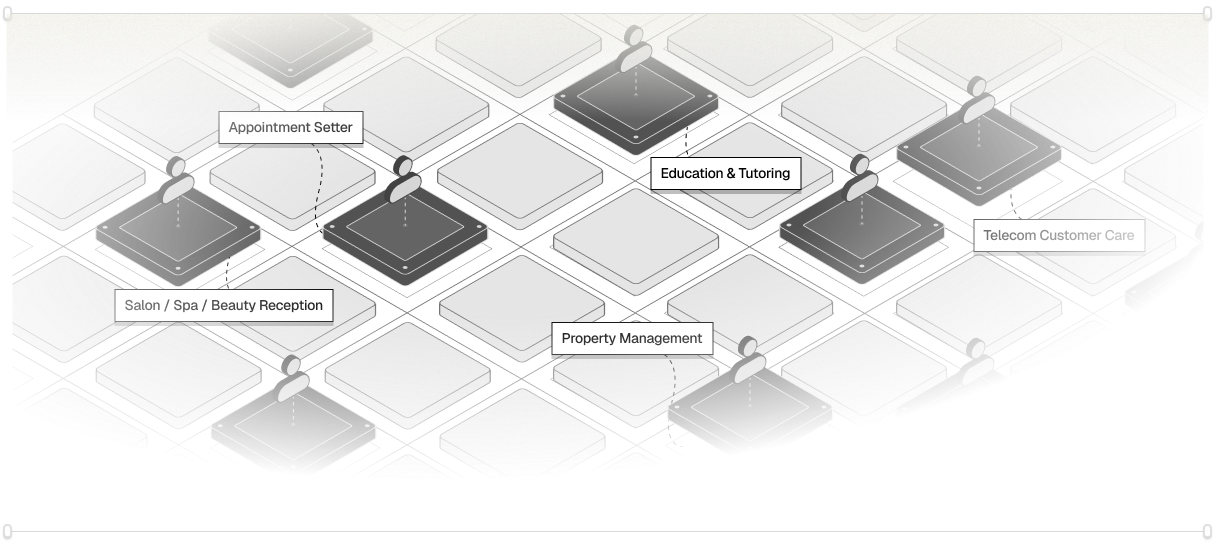
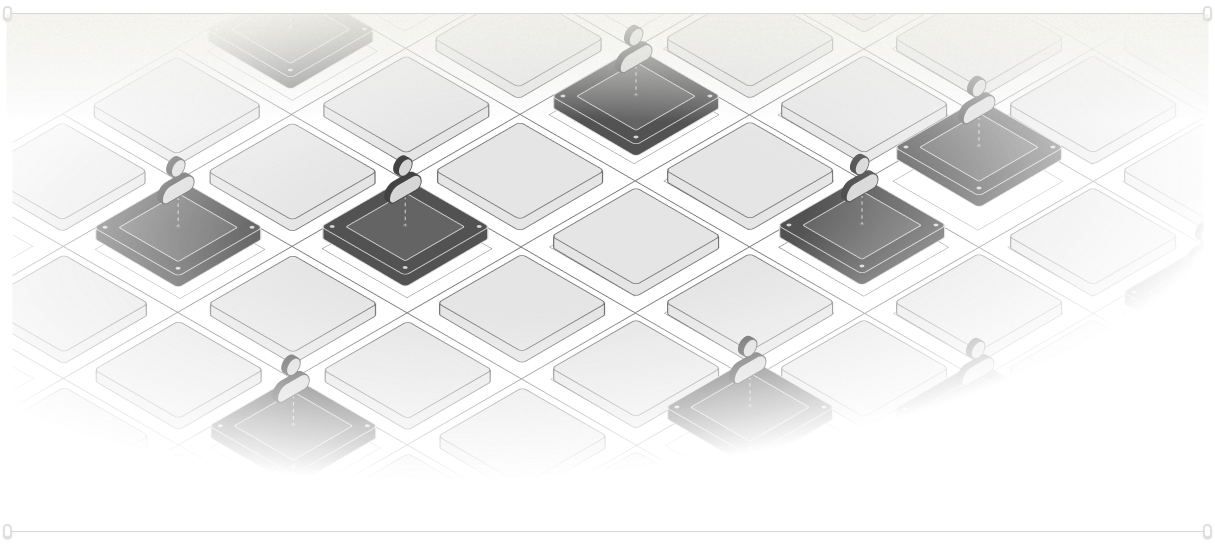
Animate the hero grid industry callouts
The callouts were baked into the grid PNG, so nothing could be animated. Split
them out: export a label-free grid plus one transparent sprite per callout,
then overlay and animate them.

- Each label fades in and rises 8px, staggered 0.5s apart left-to-right, holds,
  fades out, and loops (pure CSS, so Hero stays a server component)
- Sprites positioned as a % of the artwork so they track it as it scales
- Honours prefers-reduced-motion by showing all labels statically

Figma has no motion defined, so the timing is authored; the design was used as
reference for the labels and their placement.

diff --git a/src/app/globals.css b/src/app/globals.css
@@ -94,6 +94,41 @@ body {
   );
 }
 
+/* ---- Hero grid callouts ----
+   Each label fades in and rises, holds, then fades out. Staggered via
+   --callout-delay so they sweep across the grid, then the cycle repeats. */
+@keyframes calloutCycle {
+  0%,
+  100% {
+    opacity: 0;
+    transform: translateY(8px);
+  }
+  6% {
+    opacity: 1;
+    transform: translateY(0);
+  }
+  70% {
+    opacity: 1;
+    transform: translateY(0);
+  }
+  80% {
+    opacity: 0;
+    transform: translateY(-4px);
+  }
+}
+.animate-callout {
+  opacity: 0;
+  animation: calloutCycle 10s ease-out infinite;
+  animation-delay: var(--callout-delay, 0s);
+}
+@media (prefers-reduced-motion: reduce) {
+  .animate-callout {
+    animation: none;
+    opacity: 1;
+    transform: none;
+  }
+}
+
 /* ---- Marquee ---- */
 @keyframes marquee {
   from {

diff --git a/src/components/Hero.tsx b/src/components/Hero.tsx
@@ -5,6 +5,17 @@ import FrameMarker from "./ui/FrameMarker";
 
 const LINE = "#d9d9d9";
 
+/* Industry callouts that sit on the grid. Positions are a % of the artwork
+   (1215x551), taken from Figma, so they track the image as it scales.
+   Ordered left-to-right so the reveal sweeps across the grid. */
+const CALLOUTS = [
+  { slug: "salon-spa", label: "Salon / Spa / Beauty Reception", left: "9.424%", top: "46.624%", width: "21.481%" },
+  { slug: "appointment-setter", label: "Appointment Setter", left: "14.362%", top: "16.697%", width: "15.556%" },
+  { slug: "property-management", label: "Property Management", left: "43.416%", top: "54.991%", width: "15.309%" },
+  { slug: "education-tutoring", label: "Education & Tutoring", left: "53.539%", top: "13.612%", width: "12.428%" },
+  { slug: "telecom-customer-care", label: "Telecom Customer Care", left: "80.123%", top: "23.049%", width: "15.226%" },
+];
+
 /* Framing lines around the grid, as % of the artwork's height
    (grid frame is 551px tall in the design). */
 const TOP = "2.36%"; // 13 / 551
@@ -52,12 +63,29 @@ export default function Hero() {
         <div className="relative">
           <Image
             src="/images/hero-grid.png"
-            alt="Isometric map of voice AI use cases: appointment setting, education, sales, property management and more"
+            alt="Isometric map of voice AI use cases"
             width={1215}
             height={551}
             priority
             className="h-auto w-full select-none"
           />
+
+          {/* Industry callouts — fade in and rise, one after another, on a loop */}
+          {CALLOUTS.map((c, i) => (
+            /* eslint-disable-next-line @next/next/no-img-element */
+            <img
+              key={c.slug}
+              src={`/images/callout-${c.slug}.png`}
+              alt={c.label}
+              style={{
+                left: c.left,
+                top: c.top,
+                width: c.width,
+                ["--callout-delay" as string]: `${i * 0.5}s`,
+              }}
+              className="animate-callout pointer-events-none absolute h-auto select-none"
+            />
+          ))}
 
           <div className="pointer-events-none absolute inset-0 hidden md:block">
             {/* verticals — rise above the grid to meet the copy */}